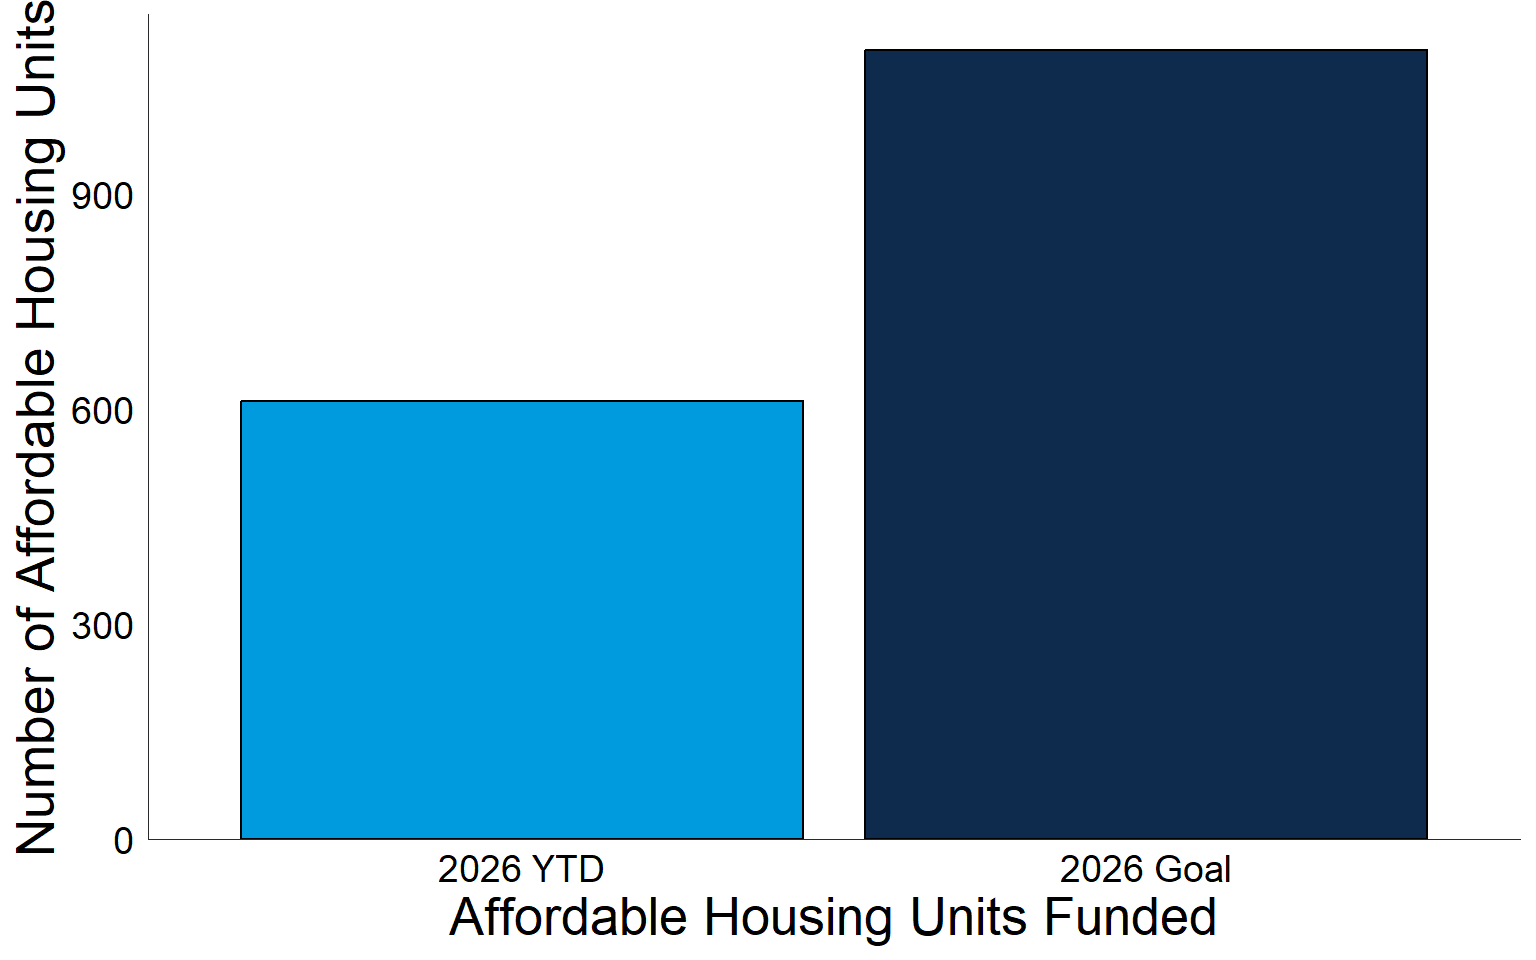
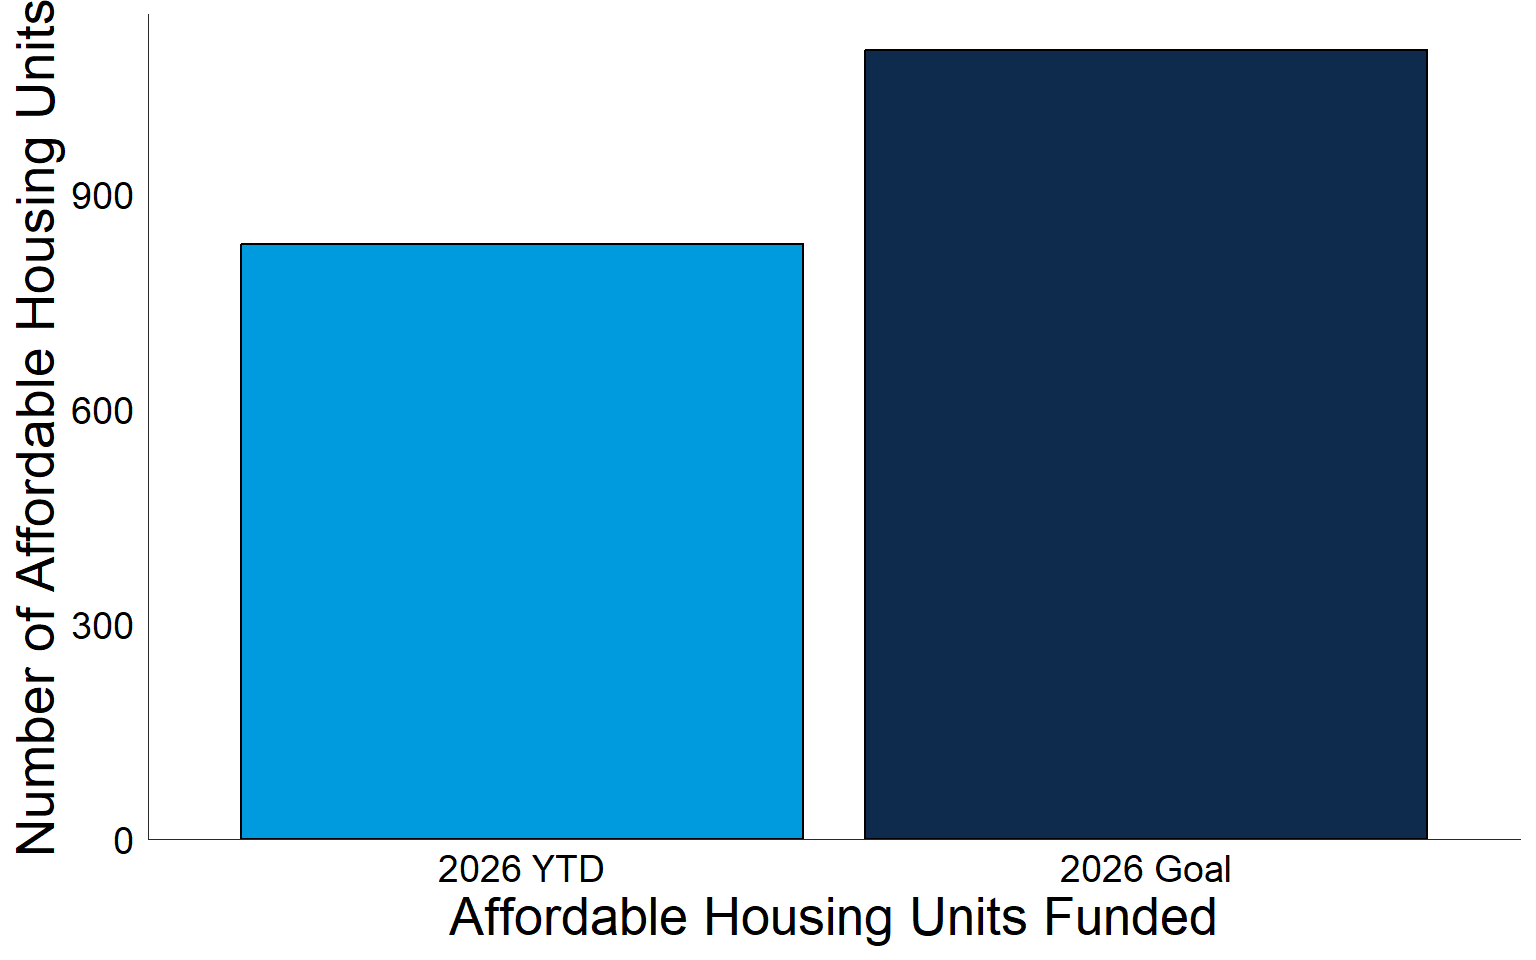
Built site for gh-pages

Changed region(s): [[0.1562, 0.25, 0.5312, 0.4375]]

diff --git a/index.html b/index.html
@@ -89,7 +89,7 @@ grid-auto-rows: minmax(0, 1fr);">
 Total Capital Invested Across All Programs
 </p>
 <p class="value-box-value">
-$581.7 Million
+$672 Million
 </p>
 </div>
 </div>
@@ -193,7 +193,7 @@ grid-auto-rows: minmax(0, 1fr);">
 Direct Investment
 </p>
 <p class="value-box-value">
-$2.9 Million
+$3.0 Million
 </p>
 </div>
 </div>
@@ -209,7 +209,7 @@ $2.9 Million
 Small Businesses Funded (Grants and Loans)
 </p>
 <p class="value-box-value">
-66
+70
 </p>
 </div>
 </div>
@@ -225,7 +225,7 @@ Small Businesses Funded (Grants and Loans)
 Small Businesses Receiving Business Consulting Services
 </p>
 <p class="value-box-value">
-807
+1,004
 </p>
 </div>
 </div>
@@ -241,7 +241,7 @@ Small Businesses Receiving Business Consulting Services
 Small Business Funded in Priority Neighborhoods
 </p>
 <p class="value-box-value">
-36.4%
+37.1%
 </p>
 </div>
 </div>
@@ -311,7 +311,7 @@ grid-auto-rows: minmax(0, 1fr);">
 Percentage of Projects in Priority Neighborhoods
 </p>
 <p class="value-box-value">
-60.7%
+59.8%
 </p>
 </div>
 </div>
@@ -327,7 +327,7 @@ Percentage of Projects in Priority Neighborhoods
 TAD Financing
 </p>
 <p class="value-box-value">
-$19.7 Million
+$22.7 Million
 </p>
 </div>
 </div>
@@ -343,7 +343,7 @@ $19.7 Million
 TAD Project Leveraged Capital
 </p>
 <p class="value-box-value">
-$100.4 Million
+$129.1 Million
 </p>
 </div>
 </div>
@@ -359,7 +359,7 @@ $100.4 Million
 Invest Atlanta Community Engagement Events
 </p>
 <p class="value-box-value">
-219
+257
 </p>
 </div>
 </div>
@@ -429,7 +429,7 @@ grid-auto-rows: minmax(0, 1fr);">
 Direct Investment in Affordable Housing
 </p>
 <p class="value-box-value">
-$64.3 Million
+$93.4 Million
 </p>
 </div>
 </div>
@@ -445,7 +445,7 @@ $64.3 Million
 Total Capital Investment in Affordable Housing
 </p>
 <p class="value-box-value">
-$228 Million
+$284 Million
 </p>
 </div>
 </div>
@@ -461,7 +461,7 @@ $228 Million
 Total Affordable Housing Units Financed
 </p>
 <p class="value-box-value">
-611
+829
 </p>
 </div>
 </div>
@@ -477,7 +477,7 @@ Total Affordable Housing Units Financed
 Homeownership Incentives (Down Payment, Home Rehab, Tax Relief)
 </p>
 <p class="value-box-value">
-151
+179
 </p>
 </div>
 </div>
@@ -547,7 +547,7 @@ grid-auto-rows: minmax(0, 1fr);">
 Total Capital Investment (Jobs &amp; Employment)
 </p>
 <p class="value-box-value">
-$142.6 Million
+$170.7 Million
 </p>
 </div>
 </div>
@@ -563,7 +563,7 @@ $142.6 Million
 Total Jobs Impact
 </p>
 <p class="value-box-value">
-2,678
+2,828
 </p>
 </div>
 </div>
@@ -579,7 +579,7 @@ Total Jobs Impact
 Business Development Projects
 </p>
 <p class="value-box-value">
-42
+48
 </p>
 </div>
 </div>
